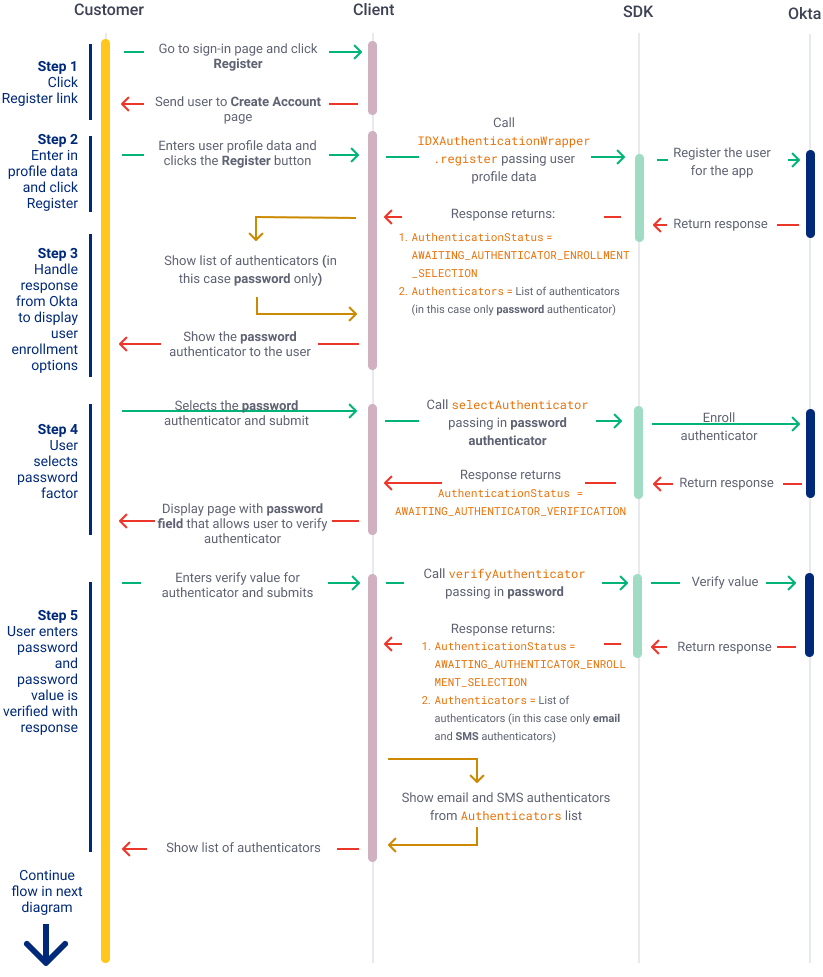
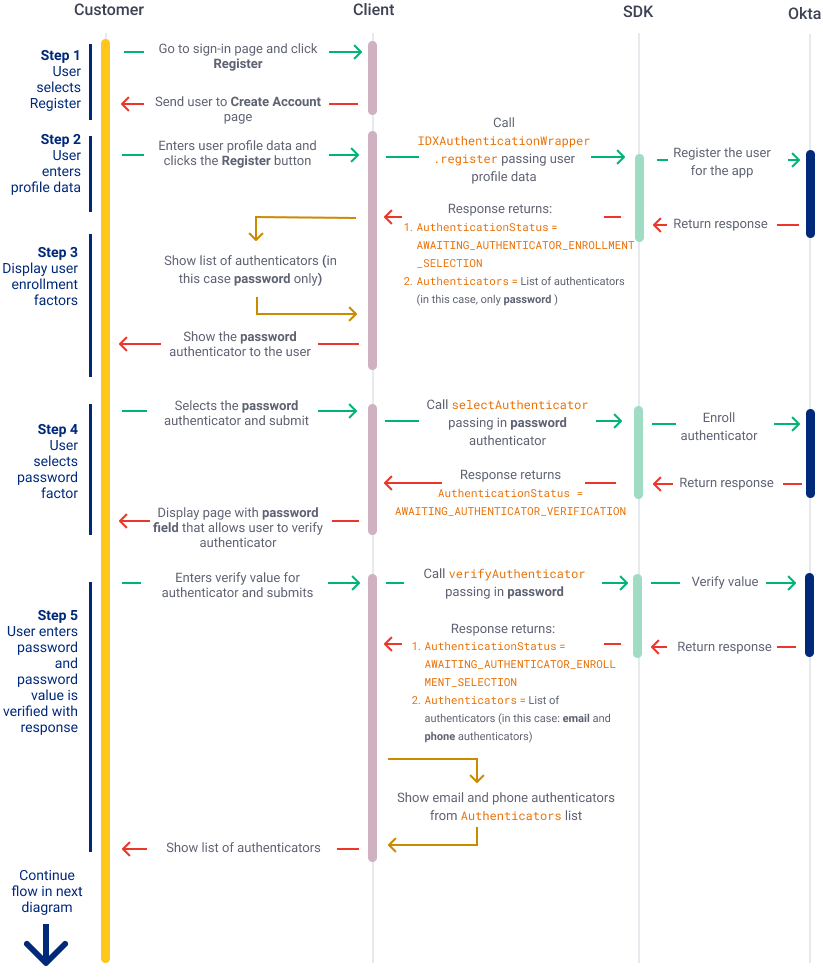
add more steps to the self-reg use case

diff --git a/packages/@okta/vuepress-site/docs/guides/oie-embedded-sdk-use-cases/oie-embedded-sdk-use-case-self-reg/java/integrationsteps.md b/packages/@okta/vuepress-site/docs/guides/oie-embedded-sdk-use-cases/oie-embedded-sdk-use-case-self-reg/java/integrationsteps.md
@@ -1,21 +1,21 @@
 ## Integration steps
 
-### Step 1: Create a sign-up link for new users
+### Step 1: Register new users
 
-The self-registration flow begins when the user clicks the **Register** link on your app's sign-in page. You need to create an HTML page for the **Register** link to capture new account parameters.
+The self-registration flow begins when the user clicks the **Register** link on your app's sign-in page. You need to create a form for the **Register** link to capture new account parameters.
 
 For example, the user to enters their first name, last name, and email in the following Create Account page:
 
 <div class="common-image-format">
 
 ![Create user for Java SDK](/img/oie-embedded-sdk/oie-embedded-sdk-use-case-simple-self-serv-screen-create-java.png
- "Create user for Java SDK")
+ "Create Account sample form  for Java SDK")
 
 </div>
 
-### Step 2: Register new user
+### Step 2: User enters profile data
 
-The next step is to begin the authentication process by calling the [IDXAuthenticationWrapper](https://github.com/okta/okta-idx-java/blob/master/api/src/main/java/com/okta/idx/sdk/api/client/IDXAuthenticationWrapper.java)'s `begin` method.
+Begin the authentication process by calling the [IDXAuthenticationWrapper](https://github.com/okta/okta-idx-java/blob/master/api/src/main/java/com/okta/idx/sdk/api/client/IDXAuthenticationWrapper.java)'s `begin` method.
 
 ```java
 AuthenticationResponse beginResponse = idxAuthenticationWrapper.begin();
@@ -42,256 +42,162 @@ ProceedContext proceedContext = newUserRegistrationResponse.getProceedContext();
 AuthenticationResponse authenticationResponse = idxAuthenticationWrapper.register(proceedContext, userProfile);
 ```
 
-### Step 3: Handle the response from Okta
+### Step 3: Display enrollment factors
 
-If you configured your org and app with the [Set up your Okta org for multifactor use cases](/docs/guides/oie-embedded-common-org-setup/java/main/#set-up-your-okta-org-for-multifactor-use-cases) instructions, `IDXAuthenticationWrapper` returns an [AuthenticationResponse](https://github.com/okta/okta-idx-java/blob/master/api/src/main/java/com/okta/idx/sdk/api/response/AuthenticationResponse.java) with the following:
+If you configured your org and app with instructions from [Set up your Okta org for multifactor use cases](/docs/guides/oie-embedded-common-org-setup/java/main/#set-up-your-okta-org-for-multifactor-use-cases), your app is configured with **Password** authentication, and additional **Email** or **Phone** factors. This step contains the request to enroll a password authenticator.
+
+After the initial register request, `IDXAuthenticationWrapper` returns an [AuthenticationResponse](https://github.com/okta/okta-idx-java/blob/master/api/src/main/java/com/okta/idx/sdk/api/response/AuthenticationResponse.java) with the following:
 
 1. [AuthenticationStatus](https://github.com/okta/okta-idx-java/blob/master/api/src/main/java/com/okta/idx/sdk/api/model/AuthenticationStatus.java) = `AWAITING_AUTHENTICATOR_ENROLLMENT_SELECTION` <br>
-   This status indicates that there are required Authenticators that needs to be verified.
+   This status indicates that there are required authenticators that needs to be verified.
 
-2. [Authenticators](https://github.com/okta/okta-idx-java/blob/master/api/src/main/java/com/okta/idx/sdk/api/client/Authenticator.java) = List of Authenticators (in this case, there is only the `password` Authenticator). <br>
+2. [Authenticators](https://github.com/okta/okta-idx-java/blob/master/api/src/main/java/com/okta/idx/sdk/api/client/Authenticator.java) = List of authenticators (in this case, there is only the password authenticator). <br>
 
    ```java
    List<Authenticator> authenticators = (List<Authenticator>) session.getAttribute("authenticators");
    ```
 
-After receiving `AWAITING_AUTHENTICATOR_ENROLLMENT_SELECTION` status and the list of Authenticators, you need to provide the user with the required factors that need to be verified. Build an Authentication list page that is generic to handle different lists returned from the SDK.
+After receiving `AWAITING_AUTHENTICATOR_ENROLLMENT_SELECTION` status and the list of authenticators, provide the user with a form to verify the required authenticators. You need to build a generic authenticator enrollment form to handle single or multiple authenticators returned from the SDK.
 
 <div class="common-image-format">
 
-![Verify password](/img/oie-embedded-sdk/oie-embedded-sdk-use-case-simple-self-serv-screen-verify-password-java.png
- "Verify password")
+![Enroll password form](/img/oie-embedded-sdk/oie-embedded-sdk-use-case-simple-self-serv-screen-verify-password-java.png "Enroll password authenticator form for Java SDK")
 
 </div>
 
 ```java
-List<String> factorMethods = new ArrayList<>();
-for (Authenticator authenticator : response.getAuthenticators()) {
-   for (Authenticator.Factor factor : authenticator.getFactors()) {
-         factorMethods.add(factor.getMethod());
+public ModelAndView selectAuthenticatorForm(AuthenticationResponse response, String title, HttpSession session) {
+   boolean canSkip = authenticationWrapper.isSkipAuthenticatorPresent(response.getProceedContext());
+   ModelAndView modelAndView = new ModelAndView("select-authenticator");
+   modelAndView.addObject("canSkip", canSkip);
+   List<String> factorMethods = new ArrayList<>();
+   for (Authenticator authenticator : response.getAuthenticators()) {
+      for (Authenticator.Factor factor : authenticator.getFactors()) {
+            factorMethods.add(factor.getMethod());
+      }
    }
+   session.setAttribute("authenticators", response.getAuthenticators());
+   modelAndView.addObject("factorList", factorMethods);
+   modelAndView.addObject("authenticators", response.getAuthenticators());
+   modelAndView.addObject("title", title);
+   return modelAndView;
 }
 ```
 
-### Step 4: Enroll required Authenticator
+### Step 4: Enroll required authenticator
 
-Pass the user-selected Authenticator (in this case, **Password**) to [IDXAuthenticationWrapper](https://github.com/okta/okta-idx-java/blob/master/api/src/main/java/com/okta/idx/sdk/api/client/IDXAuthenticationWrapper.java)'s `selectAuthenticator` method.
+Pass the user-selected authenticator (in this case, the password authenticator) to [IDXAuthenticationWrapper](https://github.com/okta/okta-idx-java/blob/master/api/src/main/java/com/okta/idx/sdk/api/client/IDXAuthenticationWrapper.java)'s `selectAuthenticator` method.
 
 ```java
 authenticationResponse = idxAuthenticationWrapper.selectAuthenticator(proceedContext, authenticator);
 ```
 
-This request returns an [AuthenticationResponse](https://github.com/okta/okta-idx-java/blob/master/api/src/main/java/com/okta/idx/sdk/api/response/AuthenticationResponse.java) object with  [AuthenticationStatus](https://github.com/okta/okta-idx-java/blob/master/api/src/main/java/com/okta/idx/sdk/api/model/AuthenticationStatus.java) = `AWAITING_AUTHENTICATOR_VERIFICATION`. You need to build a form to verify the required **Password** Authenticator.
+This request returns an [AuthenticationResponse](https://github.com/okta/okta-idx-java/blob/master/api/src/main/java/com/okta/idx/sdk/api/response/AuthenticationResponse.java) object with  [AuthenticationStatus](https://github.com/okta/okta-idx-java/blob/master/api/src/main/java/com/okta/idx/sdk/api/model/AuthenticationStatus.java) = `AWAITING_AUTHENTICATOR_VERIFICATION`. You need to build a form for the user to enter their password in this authenticator verification step.
 
 <div class="common-image-format">
 
-![Confirm password for Java](/img/oie-embedded-sdk/oie-embedded-sdk-use-case-simple-self-serv-screen-confirm-password-java.png
- "Confirm password for Java")
+![Confirm password for Java SDK](/img/oie-embedded-sdk/oie-embedded-sdk-use-case-simple-self-serv-screen-confirm-password-java.png "Verify password authenticator data sample form for Java SDK")
 
 </div>
 
-### Step 5: Verify Authenticator and display additional factors
+### Step 5: Verify authenticator and display additional factors
 
 After the user enters their new password, call [IDXAuthenticationWrapper](https://github.com/okta/okta-idx-java/blob/master/api/src/main/java/com/okta/idx/sdk/api/client/IDXAuthenticationWrapper.java)'s `verifyAuthenticator` method with the new password.
 
 ```java
 VerifyAuthenticatorOptions verifyAuthenticatorOptions = new VerifyAuthenticatorOptions(newPassword);
-AuthenticationResponse authenticationResponse =
-   idxAuthenticationWrapper.verifyAuthenticator(proceedContext, verifyAuthenticatorOptions);
+AuthenticationResponse authenticationResponse = idxAuthenticationWrapper.verifyAuthenticator(proceedContext, verifyAuthenticatorOptions);
 ```
 
-The response from this request is an [AuthenticationResponse](https://github.com/okta/okta-idx-java/blob/master/api/src/main/java/com/okta/idx/sdk/api/response/AuthenticationResponse.java) object with `AuthenticationStatus=AWAITING_AUTHENTICATOR_SELECTION` and `Authenticators` list containing required **email** and optional **phone**. Reuse the Authentication list page from [Step 3: Handle the response from Okta](#step-3-handle-the-response-from-okta) to display the list of factors to the user.
+The response from this request is an [AuthenticationResponse](https://github.com/okta/okta-idx-java/blob/master/api/src/main/java/com/okta/idx/sdk/api/response/AuthenticationResponse.java) object with `AuthenticationStatus=AWAITING_AUTHENTICATOR_ENROLLMENT_SELECTION` and an `Authenticators` list containing email and phone factors. Reuse the authentication enrollment form from [Step 3: Display enrollment factors](#step-3-display-enrollment-factors) to display the list of factors to the user.
 
 <div class="common-image-format">
 
-![Authenticator list for Java](/img/oie-embedded-sdk/oie-embedded-sdk-use-case-simple-self-serv-screen-auth-list-email-phone-java.png
- "Authenticator List for Java")
+![Authenticator list for Java](/img/oie-embedded-sdk/oie-embedded-sdk-use-case-simple-self-serv-screen-auth-list-email-phone-java.png "Authenticator List for Java SDK")
 
 </div>
 
-> **Note:** In the previous Authenticator list page, you can implement a **Skip** option for optional Authenticators. However, since **email** is required, this example did not implement a **Skip** option.
+### Step 6: User selects email authenticator
 
-### Step 6: User selects email Authenticator for verification
+In this use case, the user selects the **Email** factor as the authenticator to verify. Pass this user-selected authenticator to [IDXAuthenticationWrapper](https://github.com/okta/okta-idx-java/blob/master/api/src/main/java/com/okta/idx/sdk/api/client/IDXAuthenticationWrapper.java)'s `selectAuthenticator` method.
 
-In this use case, the user selects **Email** to verify the Authenticator. Pass this user-selected Authenticator to [IDXAuthenticationWrapper](https://github.com/okta/okta-idx-java/blob/master/api/src/main/java/com/okta/idx/sdk/api/client/IDXAuthenticationWrapper.java)'s `selectAuthenticator` method. If this request is successful, a code is sent to the user's email and `AuthenticationStatus=AWAITING_AUTHENTICATOR_VERIFICATION` is returned. You need to build a form to verify the email code.
+```java
+authenticationResponse = idxAuthenticationWrapper.selectAuthenticator(proceedContext, authenticator);
+```
+
+If this request is successful, a code is sent to the user's email and `AuthenticationStatus=AWAITING_AUTHENTICATOR_VERIFICATION` is returned.
+
+You need to build a form to capture the the verification code.
 
 <div class="common-image-format">
 
-![Authenticator email verify for Java](/img/oie-embedded-sdk/oie-embedded-sdk-use-case-simple-self-serv-screen-verify-email-code-java.png
- "Authenticator email verify for Java")
+![Authenticator email verify for Java SDK](/img/oie-embedded-sdk/oie-embedded-sdk-use-case-simple-self-serv-screen-verify-email-code-java.png "Verify code sample form - email authenticator verify option for Java SDK")
 
 </div>
 
-> **Note:** The email sent to the user has a **Verify Email Address** link that isn't yet
-supported. Accordingly, there are two recommended options to mitigate this limitation.
-See
-[Email verify email link does not work](/docs/guides/oie-embedded-sdk-limitations/main/#email-link-to-verify-email-address-not-working).
+> **Note:** The email sent to the user has a **Verify Email Address** link that isn't yet supported. There are two recommended options to mitigate this limitation. See [Email verify email link does not work](/docs/guides/oie-embedded-sdk-limitations/main/#email-link-to-verify-email-address-not-working) for details.
 
-When the user submits their email code, send the code to [IDXAuthenticationWrapper](https://github.com/okta/okta-idx-java/blob/master/api/src/main/java/com/okta/idx/sdk/api/client/IDXAuthenticationWrapper.java)'s `verifyAuthenticator` method:
+### Step 7: User submits email verification code
+
+The user receives the verification code in their email and submits it in the verify code form. Use [VerifyAuthenticationOptions](https://github.com/okta/okta-idx-java/blob/master/api/src/main/java/com/okta/idx/sdk/api/model/VerifyAuthenticatorOptions.java) to capture the code and send it to [IDXAuthenticationWrapper](https://github.com/okta/okta-idx-java/blob/master/api/src/main/java/com/okta/idx/sdk/api/client/IDXAuthenticationWrapper.java)'s `verifyAuthenticator` method:
 
 ```java
 VerifyAuthenticatorOptions verifyAuthenticatorOptions = new VerifyAuthenticatorOptions(code);
-
 AuthenticationResponse authenticationResponse =
    idxAuthenticationWrapper.verifyAuthenticator(proceedContext, verifyAuthenticatorOptions);
 ```
----
 
-The `AwaitingAuthenticatorEnrollment` status is returned because the required **email** and optional **phone** factors await to be enrolled and verified.
+If the request to verify the code is successful, the SDK returns an [AuthenticationResponse](https://github.com/okta/okta-idx-java/blob/master/api/src/main/java/com/okta/idx/sdk/api/response/AuthenticationResponse.java) object with `AuthenticationStatus=AWAITING_AUTHENTICATOR_ENROLLMENT_SELECTION` and an `Authenticators` list containing the phone factor. Reuse the authentication enrollment form from [Step 3: Display enrollment factors](#step-3-display-enrollment-factors) to display the list of factors to the user.
 
-> **Note:** The email sent to the user has a **Verify Email Address** link that isn't yet
-supported. Accordingly, there are two recommended options to mitigate this limitation.
-See
-[Email verify email link does not work](/docs/guides/oie-embedded-sdk-limitations/main/#email-link-to-verify-email-address-not-working).
-
-
-The code snippet below shows how the response is handled. `AwaitingAuthenticatorEnrollment` identifies that there are additional factors (in this use case, email and optionally phone). The Authenticator list page is loaded again (the first time was for password) with the two additional
-factors.
-
-```csharp
-switch (authnResponse.AuthenticationStatus)
-   {
-       ...
-       case AuthenticationStatus.AwaitingAuthenticatorEnrollment:
-           TempData["authenticators"] =
-              ViewModelHelper.ConvertToAuthenticatorViewModelList(authnResponse.Authenticators);
-              TempData["canSkip"] = authnResponse.CanSkip;
-            return RedirectToAction("SelectAuthenticator", "Manage");
-...
-```
-
-> **Note** The `CanSkip` property in the code sample above is used for optional factors. See the SDK sample for more information.
-
-### Step 11: Call EnrollAuthenticatorAsync to verify the email authenticator
-
-If the user selects the **email** authenticator, a call to `EnrollAuthenticatorAsync` is made and passes in the **email** `AuthenticatorId`. If successful, this call should send a code to the user's email.
-
-```csharp
-var enrollAuthenticatorOptions = new EnrollAuthenticatorOptions
-{
-     AuthenticatorId = model.AuthenticatorId,
-};
-
-var enrollResponse = await idxAuthClient.EnrollAuthenticatorAsync(enrollAuthenticatorOptions, (IIdxContext)Session["IdxContext"]);
-```
-
-> **Note:** The email sent to the user has a **Verify Email Address** link that isn't yet
-supported. Accordingly, there are two recommended options to mitigate this limitation.
-See
-[Email verify email link does not work](/docs/guides/oie-embedded-sdk-limitations/main/#email-link-to-verify-email-address-not-working).
-
-### Step 13: Handle the response to EnrollAuthenticatorAsync
-
-If the call to `EnrollAuthenticatorAsync` was successful, it should return an `AuthenticationStatus` of `AwaitingAuthenticatorVerification`. When `AwaitingAuthenticatorVerification` is returned, a code is sent to the user's email, and the user needs to verify this code.
-
-The following sample app code snippet shows that the user is redirected to the **Verify Authenticator** page to verify that the code was sent in the email.
-
-```csharp
-var enrollResponse = await idxAuthClient.EnrollAuthenticatorAsync(enrollAuthenticatorOptions, (IIdxContext)Session["IdxContext"]);
-
-switch (enrollResponse?.AuthenticationStatus)
-{
-   case AuthenticationStatus.AwaitingAuthenticatorVerification:
-        return RedirectToAction("VerifyAuthenticator", "Manage");
-...
+```java
+public ModelAndView selectAuthenticatorForm(AuthenticationResponse response, String title, HttpSession session) {
+   boolean canSkip = authenticationWrapper.isSkipAuthenticatorPresent(response.getProceedContext());
+   ModelAndView modelAndView = new ModelAndView("select-authenticator");
+   modelAndView.addObject("canSkip", canSkip);
+   List<String> factorMethods = new ArrayList<>();
+   for (Authenticator authenticator : response.getAuthenticators()) {
+      for (Authenticator.Factor factor : authenticator.getFactors()) {
+            factorMethods.add(factor.getMethod());
+      }
+   }
+   session.setAttribute("authenticators", response.getAuthenticators());
+   modelAndView.addObject("factorList", factorMethods);
+   modelAndView.addObject("authenticators", response.getAuthenticators());
+   modelAndView.addObject("title", title);
+   return modelAndView;
 }
 ```
 
-### Step 14: Build the email verification code page
-
-Build the email verification code page that accepts the code from the email.
+Based on the configuration described in [Set up your Okta org for multifactor use cases)](/docs/guides/oie-embedded-common-org-setup/java/main/#set-up-your-okta-org-for-multifactor-use-cases), the app in this use case is set up to require one possession factor (either email or phone). After the email factor is verified, the phone factor becomes optional. In this step, the `isSkipAuthenticatorPresent` function returns `TRUE` for the phone authenticator. You can build a **Skip** button in your form to allow the user to skip the optional phone factor. If the user decides to skip the optional factor, they are authenticated since they have already verified the required factors. See [Skip optional remaining factors](#skip-optional-remaining-factors) for details.
 
 <div class="common-image-format">
 
-![Authenticator list](/img/oie-embedded-sdk/oie-embedded-sdk-use-case-simple-self-serv-screen-verify-email-code.png
- "Authenticator List")
+![Enroll phone form](/img/oie-embedded-sdk/oie-embedded-sdk-use-case-simple-self-serv-screen-auth-list-phone-java.png
+ "Enroll phone authenticator form for Java SDK")
 
 </div>
 
-### Step 15: Call VerifyAuthenticatorAsync to verify email code
+---
+### Step 8: User selects phone authenticator
 
-The next step is to call `VerifyAuthenticatorAsync`. In the email verification, the code that is passed into `VerifyAuthenticatorAsync` is the code found in the verification email.
+In this use case option, the user selects the optional **Phone** factor as the authenticator to verify. Pass this selected authenticator to [IDXAuthenticationWrapper](https://github.com/okta/okta-idx-java/blob/master/api/src/main/java/com/okta/idx/sdk/api/client/IDXAuthenticationWrapper.java)'s `selectAuthenticator` method.
 
-```csharp
-var idxAuthClient = new IdxClient(null);
-           var verifyAuthenticatorOptions = new VerifyAuthenticatorOptions
-           {
-               Code = code,
-           };
-
-var authnResponse = await idxAuthClient.VerifyAuthenticatorAsync(verifyAuthenticatorOptions, (IIdxContext)Session["idxContext"]);
+```java
+authenticationResponse = idxAuthenticationWrapper.selectAuthenticator(proceedContext, authenticator);
 ```
 
-### Step 16: Handle response from VerifyAuthenticatorAsync
+The response from this request is an [AuthenticationResponse](https://github.com/okta/okta-idx-java/blob/master/api/src/main/java/com/okta/idx/sdk/api/response/AuthenticationResponse.java) object with `AuthenticationStatus=AWAITING_AUTHENTICATOR_ENROLLMENT_DATA`. This status indicates that the user needs to provide additional authenticator information. In the case of the phone authenticator, the user needs to specify a phone number.
 
-The next step is to handle the response from `VerifyAuthenticatorAsync`. If the email code was valid, the method should return `AuthenticationStatus` of `AwaitingAuthenticatorEnrollment`. This status signifies that there is another factor (required or optional) waiting to be enrolled and verified. If the steps described in [Set up your Okta org (for multi-factor use cases)](/docs/guides/oie-embedded-common-org-setup/aspnet/main/#set-up-your-okta-org-for-multifactor-use-cases) were properly followed, the user should be sent back to the Authenticator list page that shows only the **phone** authenticator.
-
-```csharp
-var authnResponse = await _idxClient.VerifyAuthenticatorAsync(verifyAuthenticatorOptions,
-     (IIdxContext)Session["idxContext"]);
-Session["idxContext"] = authnResponse.IdxContext;
-
-switch (authnResponse.AuthenticationStatus)
-      {
-          case AuthenticationStatus.AwaitingAuthenticatorEnrollment:
-               TempData["authenticators"] =
-               ViewModelHelper.ConvertToAuthenticatorViewModelList
-               (authnResponse.Authenticators);
-               TempData["canSkip"] = authnResponse.CanSkip;
-               return RedirectToAction("SelectAuthenticator", "Manage");
-           ...
-      }
-```
-
-### Step 17: Show the remaining list of authenticators
-
-The remaining authenticator should display the phone factor to the user. Since this factor is currently optional and no other required factors need to be verified, the user should have the ability to skip the factor. Create a **Skip** button for this use case. This **Skip** button is governed by the `CanSkip` property on the `AuthenticationResponse`. See the following screenshot for an illustration.
+You need to build a form to capture the user's phone number.
 
 <div class="common-image-format">
 
-![Phone list](/img/oie-embedded-sdk/oie-embedded-sdk-use-case-simple-self-serv-screen-auth-list-phone.png
- "Phone List")
+![Enroll phone number](/img/oie-embedded-sdk/oie-embedded-sdk-use-case-simple-self-serv-screen-verify-phone-num-java.png
+ "Enroll phone number authenticator form for Java SDK")
 
 </div>
 
-The user can either enroll in the phone factor or skip the phone factor. Your code should handle both scenarios that will be described in the following steps.
-
-### Step 18a, Option 1, Enroll and verify the phone authenticator
-
-If the user selects the phone authenticator (instead of skipping it), the steps to enroll and verify are similar to the email factor verification flow in this section with subtle differences.
-
-### Step 18b: Option 1: Call EnrollAuthenticatorAsync (1st time) to start phone verification
-
-If the user selects the **phone** authenticator, a call to `EnrollAuthenticatorAsync` is made passing in the **phone** `AuthenticatorId`. If successful, the method should return an `AwaitingAuthenticatorEnrollmentData` response. The `AwaitingAuthenticatorEnrollmentData `response indicates that the enrollment data is required before continuing to verification. 
-
-In the use case to verify the phone authenticator, the phone number is required, and the user should be redirected to a page where they can enter in a phone number. See the following code snippet from the sample app.
-
-```csharp
-var enrollResponse = await _idxClient.EnrollAuthenticatorAsync(enrollAuthenticatorOptions,
-     (IIdxContext)Session["IdxContext"]);
-...
-
-switch (enrollResponse?.AuthenticationStatus)
-     {
-          ...
-          case AuthenticationStatus.AwaitingAuthenticatorEnrollmentData:
-               return RedirectToAction("EnrollPhoneAuthenticator", "Manage");
-          ...
-      }
-```
-
-### Step 18c, Option 1: Build the phone number entry page
-
-Build the phone number entry page that accepts the phone number. The user uses the phone number entry page to enroll and verify.
-
-<div class="common-image-format">
-
-![Verify phone](/img/oie-embedded-sdk/oie-embedded-sdk-use-case-simple-self-serv-screen-verify-phone-num.png
- "Verify phone")
-
-</div>
-
-> **Note:** The SDK requires that the phone number be in the following format: `+#######`, including the beginning plus (+) sign. See [Data Requirements - Phone number](/docs/guides/oie-embedded-sdk-common/aspnet/main/#phone-number).
+> **Note:** The Java SDK requires the following phone number format: `{+}{country-code}{area-code}{number}`. For example, `+15556667777`.
 
 ### Step 18d, Option 1: Call EnrollAuthenticatorAsync (2nd time) to submit the phone number and send SMS
 

diff --git a/packages/@okta/vuepress-site/docs/guides/oie-embedded-sdk-use-cases/oie-embedded-sdk-use-case-self-reg/java/summaryofsteps.md b/packages/@okta/vuepress-site/docs/guides/oie-embedded-sdk-use-cases/oie-embedded-sdk-use-case-self-reg/java/summaryofsteps.md
@@ -8,28 +8,25 @@ The following diagram illustrates the beginning of the registration process wher
 
 <div class="common-image-format">
 
-![Self-service registration start for Java](/img/oie-embedded-sdk/oie-embedded-sdk-use-case-simple-self-serv-seq-start-java.png
- "Self-service registration start for Java")
+![Self-registration start for Java](/img/oie-embedded-sdk/oie-embedded-sdk-use-case-simple-self-serv-seq-start-java.png "Sequence diagram for starting self-registration with password for Java SDK")
 
 </div>
 
 ### Diagram 2: Enroll and verify email factor
 
-The self-registration flow continues in this sequence.
+The self-registration flow continues with email and phone factors in this sequence.
 
 <div class="common-image-format">
 
-![Self-service registration enroll](/img/oie-embedded-sdk/oie-embedded-sdk-use-case-simple-self-serv-seq-enroll-verify.png
- "Self-service registration enroll")
+![Self-service registration enroll](/img/oie-embedded-sdk/oie-embedded-sdk-use-case-simple-self-serv-seq-enroll-verify-java.png "Sequence diagram for enrolling self-registration MFA with Java SDK")
 
 </div>
 
 ### Diagram 3, Option 1: Enroll and verify phone (SMS) factor
 
-After the password and email are verified, the user has the option to
-enroll in the phone factor.
+After the password and email factors are verified, the user has the option to enroll the phone factor.
 
-> **Note:** Based on the steps described in [Set up your Okta org (for multifactor use cases)](/docs/guides/oie-embedded-common-org-setup/aspnet/main/#set-up-your-okta-org-for-multi-factor-use-cases), the Okta application is set up to require one possession factor (either email or phone). After the email factor is verified, the phone factor becomes optional.
+> **Note:** Based on the configuration described in [Set up your Okta org for multifactor use cases)](/docs/guides/oie-embedded-common-org-setup/java/main/#set-up-your-okta-org-for-multifactor-use-cases), the Okta app is set up to require one possession factor (either email or phone). After the email factor is verified, the phone factor becomes optional.
 
 The following flow describes the steps when the user enrolls in the optional phone SMS factor.
 
